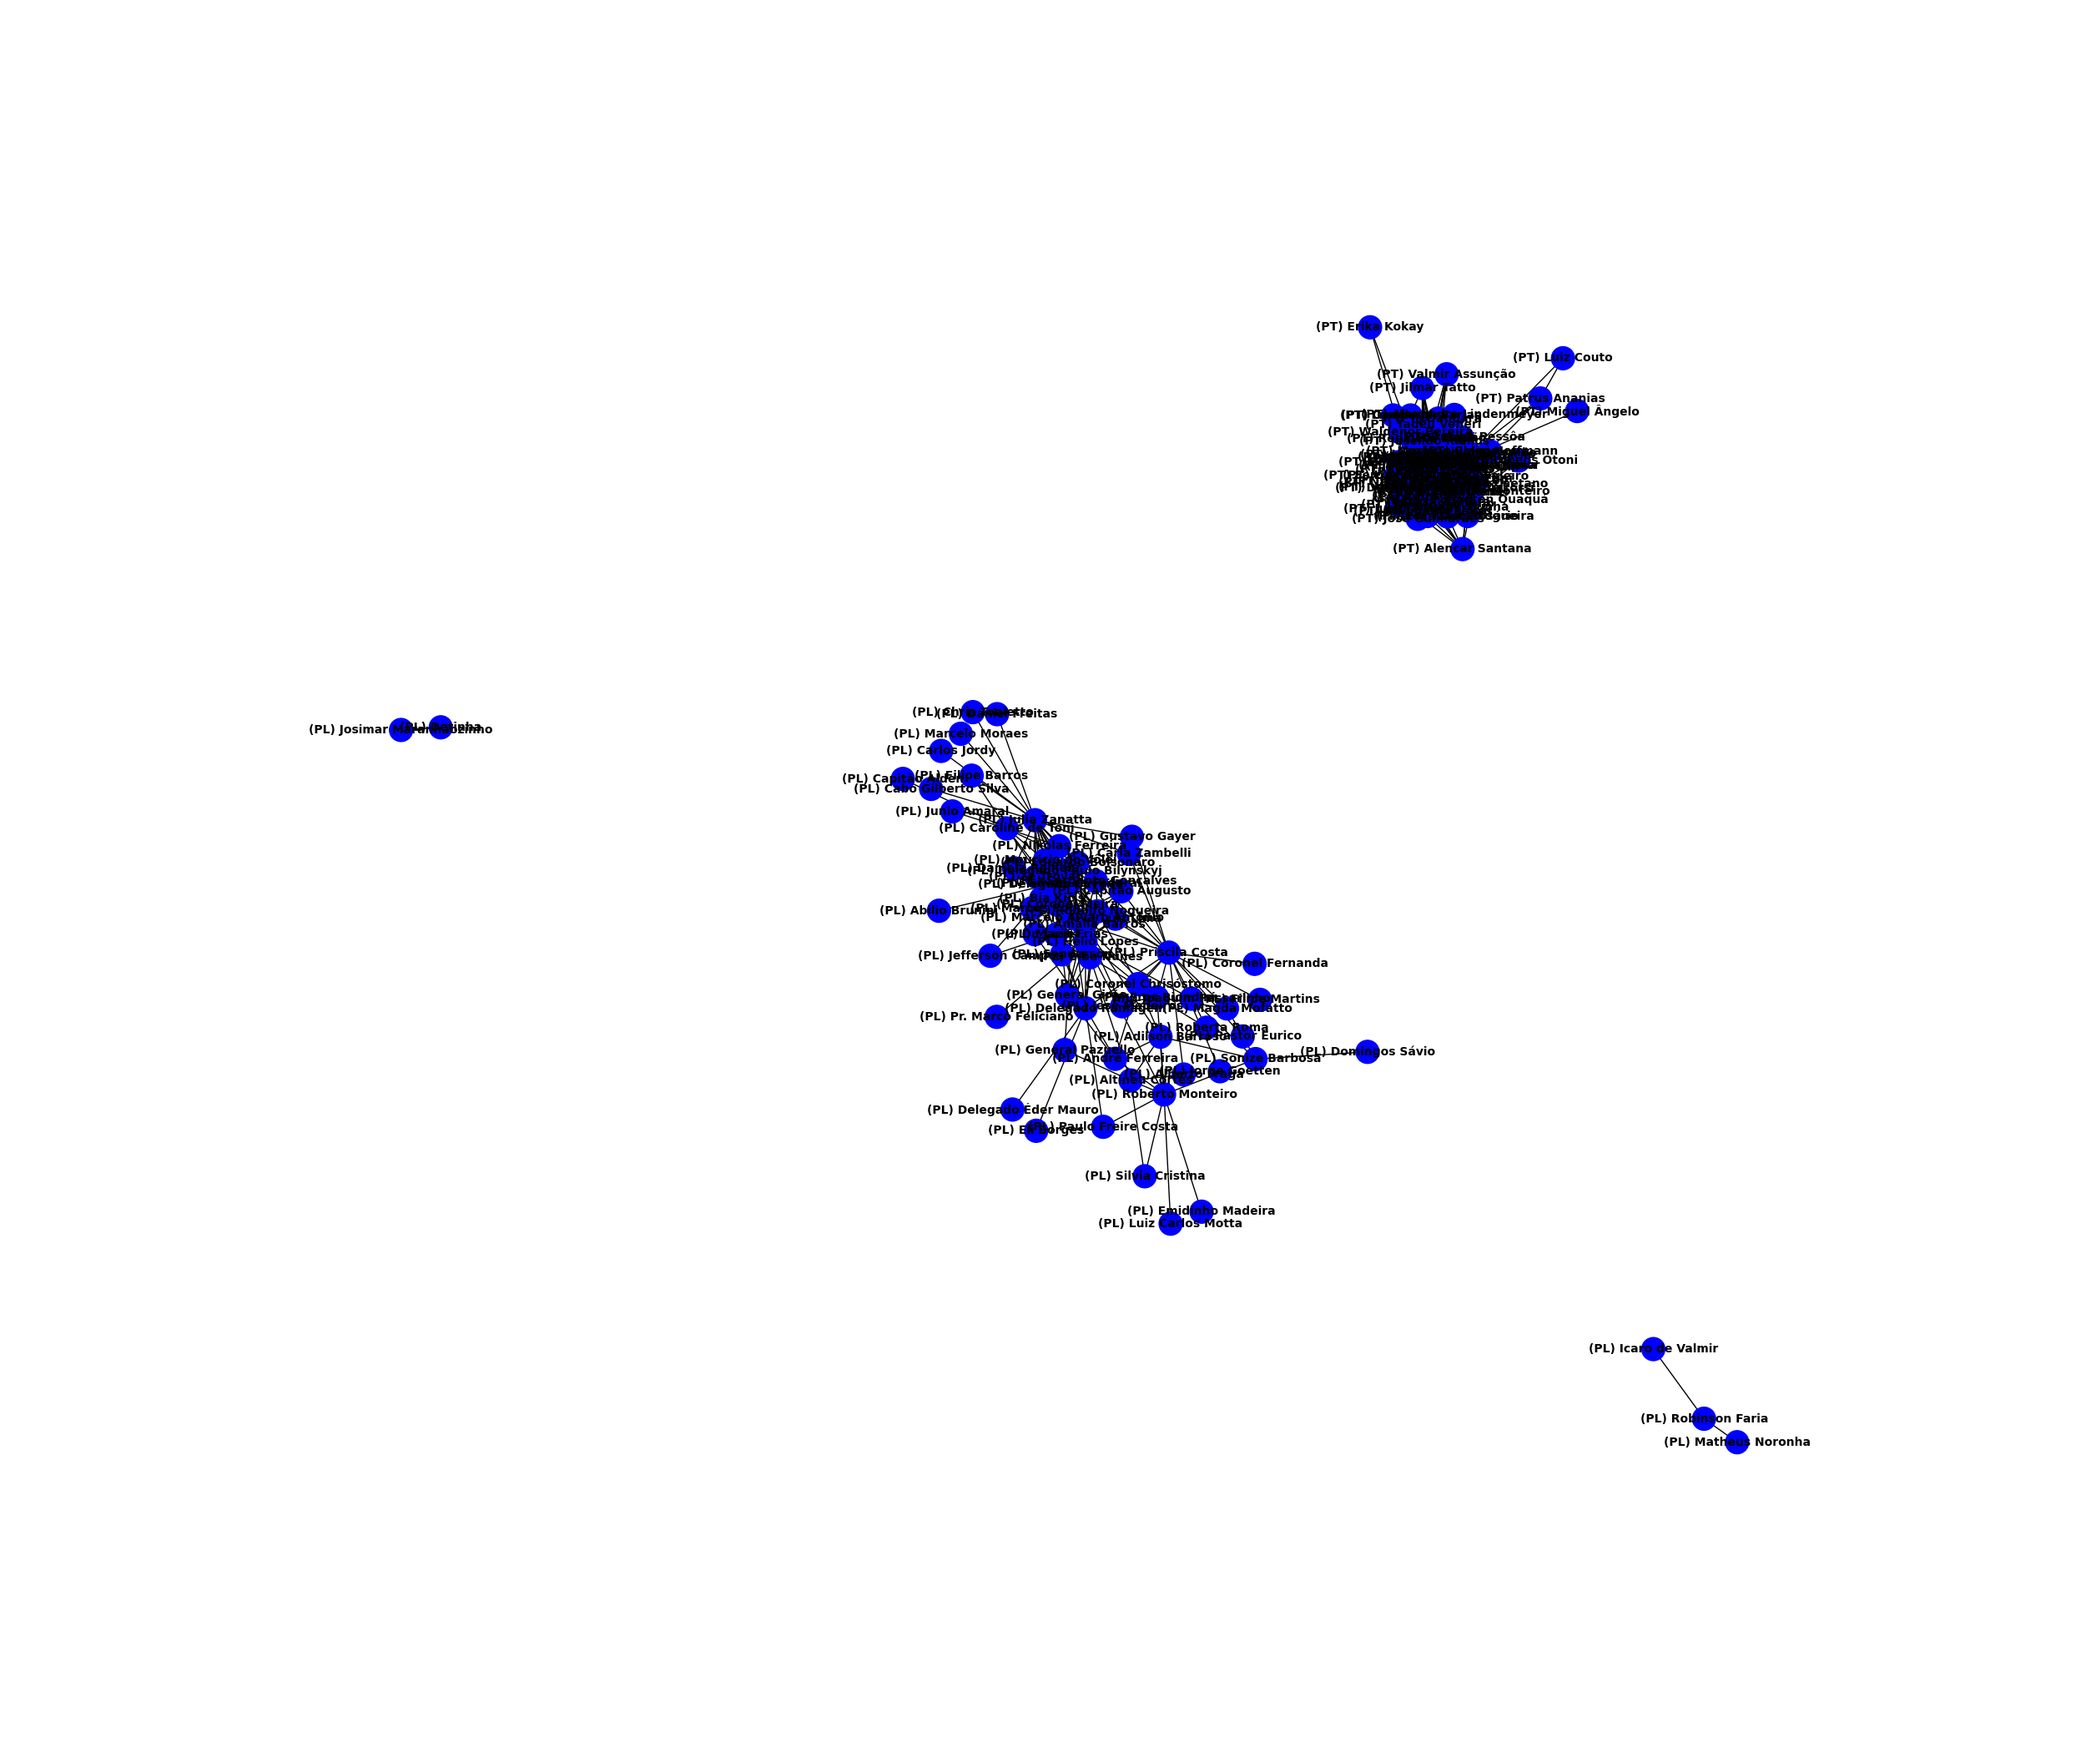
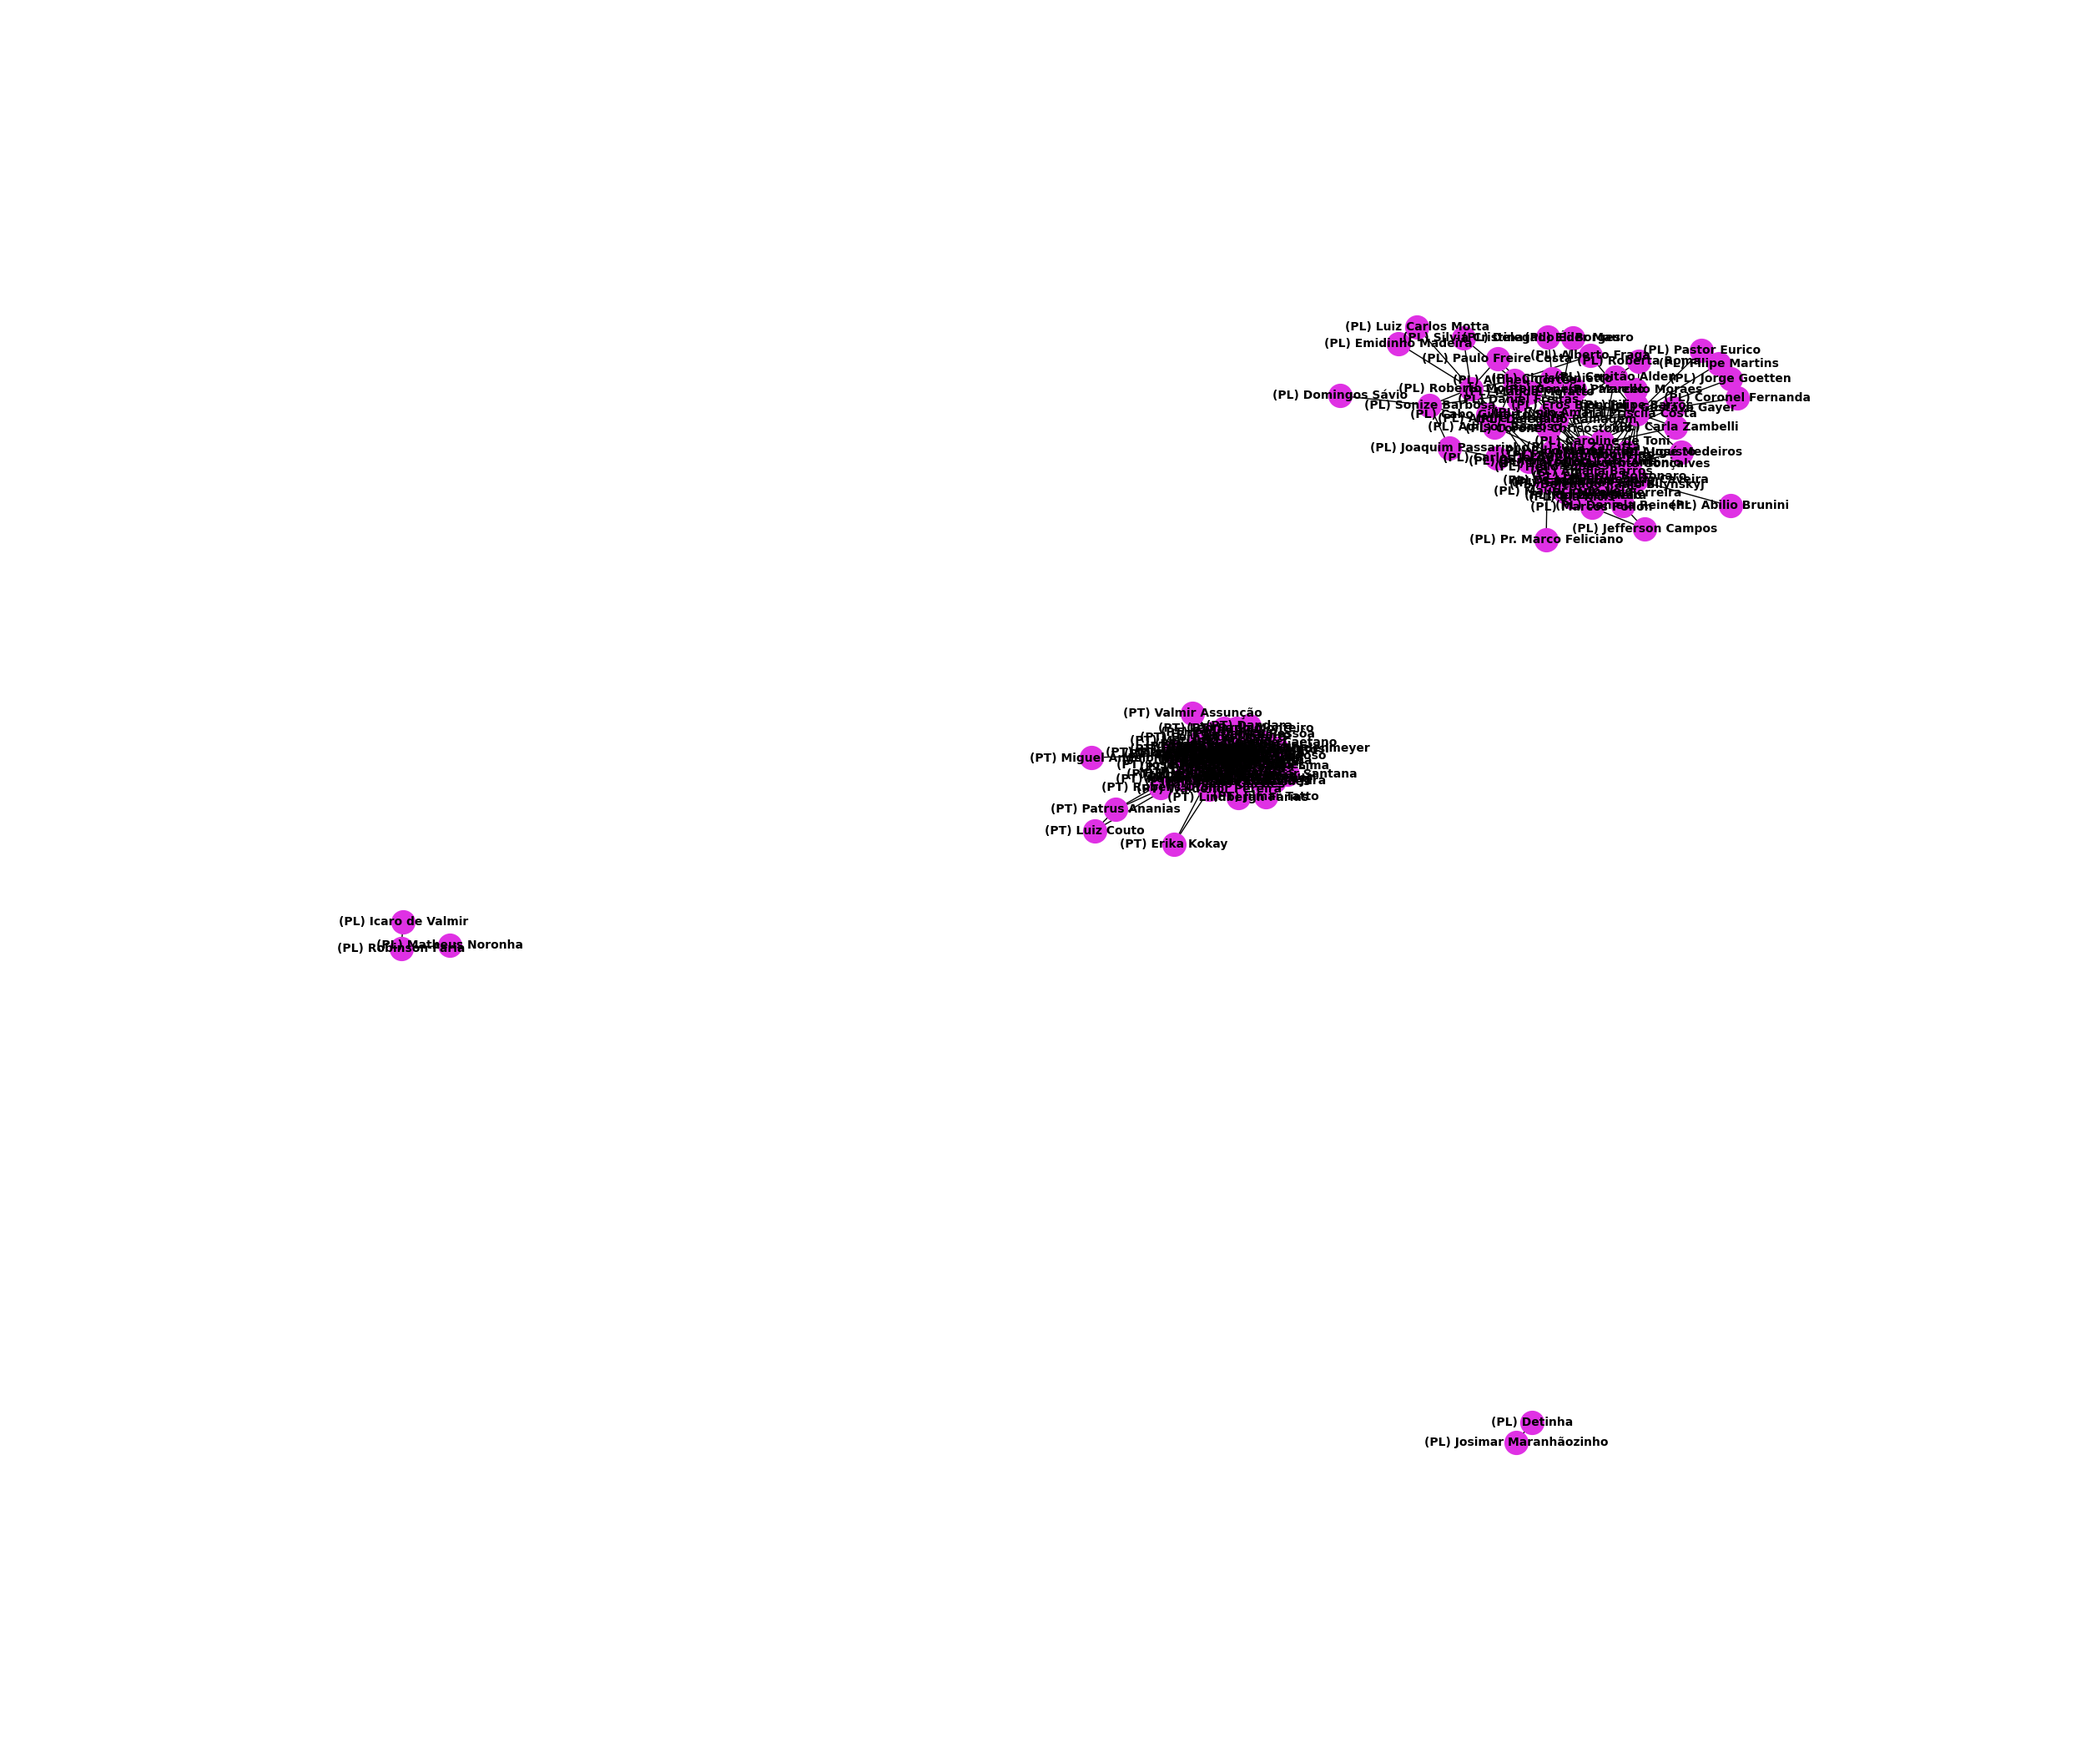
colors_dict added

diff --git a/main.py b/main.py
@@ -1,6 +1,7 @@
 import networkx as nx
 import numpy as np
 import matplotlib.pyplot as plt
+import random
 
 Graph = nx.Graph()
 
@@ -78,6 +79,23 @@ def inversion_of_weights(G):
     for u, v, data in G.edges(data=True):
         data['weight'] = 1 - data['weight']
 
+# Associa uma cor aleatoria a cada partido, útil para coloração dos nós
+def create_dict_colors():
+    politicians_by_party = read_file_by_political_party(politicians_path, p_party)
+    values = list(politicians_by_party.values())
+    result = []
+    for i in values: 
+        if i not in result: 
+            result.append(i)
+    colors = []
+    for i in range(len(result)):
+        colors.append("#"+''.join([random.choice('0123456789ABCDEF') for j in range(6)]))
+    dict_colors = {}
+    for i in range(len(result)):
+        for j in result[i]:
+            dict_colors[j] = colors[i]
+    return dict_colors
+
 def create_betwenness(Graph, year, p_party):
     
     betweenness_centrality = nx.betweenness_centrality(Graph)
@@ -146,12 +164,9 @@ def create_graph(Graph, year, p_party):
     pos = nx.spring_layout(Graph)
 
     fig, ax = plt.subplots(figsize=(25, 21))  # (largura, altura)
-    colors = []
-    for node in Graph.nodes():
-        colors.append("blue")
     
     # Desenha o grafo
-    nx.draw(Graph, pos, with_labels=True, node_size=400, node_color=colors, font_size=10, font_color='black', font_weight='bold')
+    nx.draw(Graph, pos, with_labels=True, node_size=400, node_color="#DF31E4", font_size=10, font_color='black', font_weight='bold')
 
     if len(p_party) == 0:
         plt.savefig(f"graph_/graph_{year}_ALL.png")
@@ -175,5 +190,6 @@ if __name__ == '__main__':
     
     inversion_of_weights(Graph)
     
-    create_betwenness(Graph, year, p_party)
-    create_heatmap(Graph, year, p_party)
+    # create_betwenness(Graph, year, p_party)
+    # create_heatmap(Graph, year, p_party)
+    
